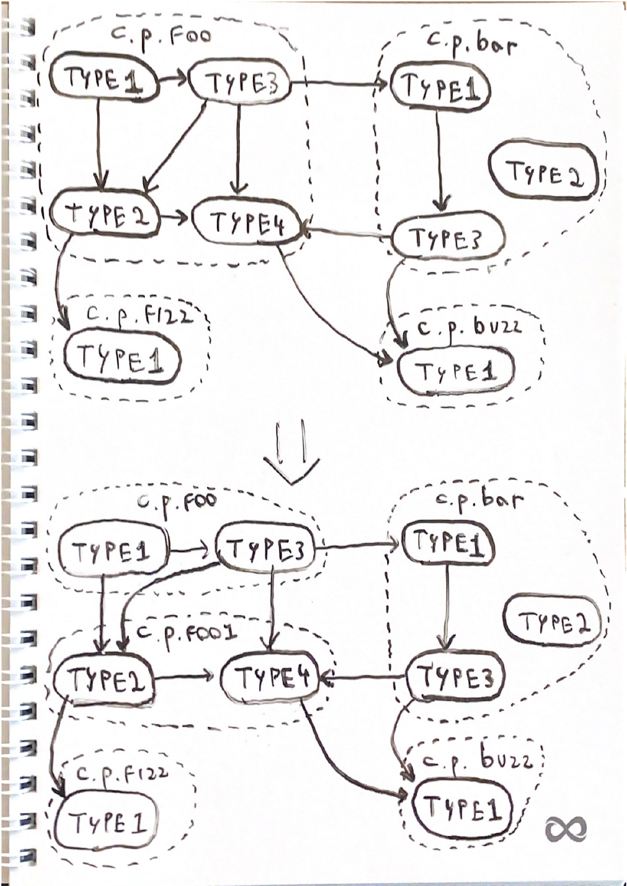
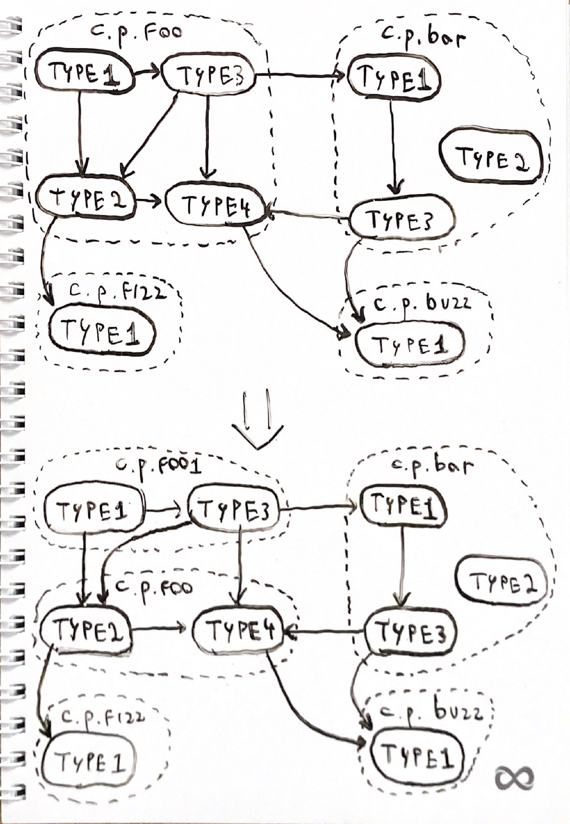
improve

diff --git a/conjure/cycles/partition.go b/conjure/cycles/partition.go
@@ -1,0 +1,131 @@
+// Copyright (c) 2018 Palantir Technologies. All rights reserved.
+//
+// Licensed under the Apache License, Version 2.0 (the "License");
+// you may not use this file except in compliance with the License.
+// You may obtain a copy of the License at
+//
+//     http://www.apache.org/licenses/LICENSE-2.0
+//
+// Unless required by applicable law or agreed to in writing, software
+// distributed under the License is distributed on an "AS IS" BASIS,
+// WITHOUT WARRANTIES OR CONDITIONS OF ANY KIND, either express or implied.
+// See the License for the specific language governing permissions and
+// limitations under the License.
+
+package cycles
+
+// partition takes in a directed acyclic graph (nodes of type T) where each node has a color (color of type V).
+// It attempts to merge as many nodes as possible in a stable manner such that two nodes can be merged
+// if and only if they have the same color and merging them won't introduce a cycle.
+func partition[T, V comparable](g *graph[T], colorByID map[T]V) map[V][][]T {
+	return (&partitioner[T, V]{g: g, colorByID: colorByID}).run()
+}
+
+type partitioner[T, V comparable] struct {
+	// partitioner input
+	g         *graph[T]
+	colorByID map[T]V
+
+	// partitioner internal variables
+	numNodes     int
+	idToBit      map[T]bitID
+	disallowed   map[T]bitset   // For each node, the nodes that, if merged, would cause a cycle.
+	dependencies map[T]bitset   // For each node u, the nodes that can be reached by u.
+	visited      map[T]struct{} // Visit each node once in the dfs
+	revToposort  []T
+}
+
+func (p *partitioner[T, V]) run() map[V][][]T {
+	p.numNodes = len(p.g.nodes)
+
+	// Step 1: Represent all nodes as a bitID. We'll use bitsets to efficiently represent dependencies in O(n^2/64).
+	p.idToBit = make(map[T]bitID, p.numNodes)
+	for i, u := range p.g.nodes {
+		p.idToBit[u.id] = bitID(i)
+	}
+
+	// Step 2: For each node, calculate its total dependencies and disallowed dependencies.
+	// A dependency is disallowed if and only if:
+	// - Dependency has a different color
+	// - At least one node of a different color exists in a the path from the node to the dependency.
+	// Also while we're at it, calculate a reversed topological sort.
+	p.visited = make(map[T]struct{}, p.numNodes)
+	p.disallowed = make(map[T]bitset, p.numNodes)
+	p.dependencies = make(map[T]bitset, p.numNodes)
+	p.revToposort = make([]T, 0, p.numNodes)
+	for _, u := range p.g.nodes {
+		p.dfs(u)
+	}
+
+	// Step 3: Traverse nodes and try to merge into one of the groupings or create a new grouping if not possible.
+	// Do it in reverse topological order to prioritize groups that have less dependencies.
+	groupsByColor := make(map[V][][]T)
+	for _, id := range p.revToposort {
+		color := p.colorByID[id]
+		merged := false
+		for groupIdx, group := range groupsByColor[color] {
+			// Since we merge all restrictions of the group into the first one, we can check if we can merge
+			// by just checking the first one.
+			leader := group[0]
+			if p.canMerge(id, leader) {
+				p.merge(id, leader)
+				group = append(group, id)
+				groupsByColor[color][groupIdx] = group
+				merged = true
+				break
+			}
+		}
+		if !merged {
+			groupsByColor[color] = append(groupsByColor[color], []T{id})
+		}
+	}
+	return groupsByColor
+}
+
+func (p *partitioner[T, V]) dfs(u *node[T]) {
+	if _, alreadyVisited := p.visited[u.id]; alreadyVisited {
+		return
+	}
+	p.visited[u.id] = struct{}{}
+
+	disallowed := newBitset(p.numNodes)
+	dependencies := newBitset(p.numNodes)
+	for _, v := range u.sortedEdges(func(id1, id2 T) bool { return false }) {
+		p.dfs(v)
+
+		dependencies = dependencies.merge(p.dependencies[v.id])
+
+		// If the node v (dependency of u) can't merge with node w (dependency of v),
+		// then node u also can't merge with w (indirect dependency of u) because either:
+		// - u and w have different colors
+		// - u and w have the same color and both have different colors than v: in this case there is a color cycle
+		// - u and w are the same color which is also the same as v: since w is disallowed to v there exists at least
+		//   one path from v to w that has a node of a different color and this path is a sub-path of u to w.
+		// Therefore, we can just merge the v's disallowed set into u's.
+		disallowed = disallowed.merge(p.disallowed[v.id])
+		// If color of u and v have different colors, then u and v can't be merged.
+		if p.colorByID[u.id] != p.colorByID[v.id] {
+			disallowed = disallowed.merge(p.dependencies[v.id])
+		}
+	}
+
+	p.disallowed[u.id] = disallowed
+	dependencies.turnBitOn(p.idToBit[u.id])
+	p.dependencies[u.id] = dependencies
+	p.revToposort = append(p.revToposort, u.id)
+}
+
+func (p *partitioner[T, V]) canMerge(id1, id2 T) bool {
+	// Can't merge two nodes if the colors are different
+	if p.colorByID[id1] != p.colorByID[id2] {
+		return false
+	}
+	// Check if one is a disallowed dependency of the other.
+	return !p.disallowed[id1].getBit(p.idToBit[id2]) &&
+		!p.disallowed[id2].getBit(p.idToBit[id1])
+}
+
+func (p *partitioner[T, V]) merge(id1, id2 T) {
+	p.disallowed[id1] = p.disallowed[id1].merge(p.disallowed[id2])
+	p.disallowed[id2] = p.disallowed[id2].merge(p.disallowed[id1])
+}

diff --git a/conjure/cycles/package.go b/conjure/cycles/package.go
@@ -24,16 +24,17 @@ import (
 )
 
 type packageSet map[string]struct{}
+type packageSetStr string
 
 type typeTransformFn func(typeName spec.TypeName) (spec.TypeName, error)
 
-func (s *packageSet) toString() string {
+func (s *packageSet) toString() packageSetStr {
 	strs := make([]string, 0, len(*s))
 	for str := range *s {
 		strs = append(strs, str)
 	}
 	sort.Strings(strs)
-	return strings.Join(strs, ";")
+	return packageSetStr(strings.Join(strs, ";"))
 }
 
 // RemovePackageCycles modifies the conjure definition in order to remove package cycles in the compiled Go code.
@@ -49,7 +50,7 @@ func RemovePackageCycles(def spec.ConjureDefinition) (spec.ConjureDefinition, er
 	sccs := calculateStronglyConnectedComponents(typeGraph)
 
 	// Step 3: merge strongly connected components as much as possible
-	packageSetByComponent := make(map[componentID]string, len(sccs.componentGraph.nodes))
+	packageSetByComponent := make(map[componentID]packageSetStr, len(sccs.componentGraph.nodes))
 	for compID, types := range sccs.components {
 		packages := make(packageSet)
 		for _, typ := range types {
@@ -57,7 +58,7 @@ func RemovePackageCycles(def spec.ConjureDefinition) (spec.ConjureDefinition, er
 		}
 		packageSetByComponent[compID] = packages.toString()
 	}
-	mergedComponents := mergeColors(sccs.componentGraph, packageSetByComponent)
+	mergedComponents := partition(sccs.componentGraph, packageSetByComponent)
 
 	// Step 4: merge types within a set of merged components and create a type transformation map
 	typeTransform := make(map[spec.TypeName]spec.TypeName)
@@ -72,10 +73,6 @@ func RemovePackageCycles(def spec.ConjureDefinition) (spec.ConjureDefinition, er
 			typeGroups = append(typeGroups, dedup(types))
 		}
 
-		// Sort type groups to keep algorithm stable
-		sort.SliceStable(typeGroups, func(i, j int) bool {
-			return compareTypes(typeGroups[i][0], typeGroups[j][0])
-		})
 		for idx, typeGroup := range typeGroups {
 			mergeTypesIntoSamePackage(typeGroup, typeTransform, idx)
 		}

diff --git a/conjure/cycles/package_test.go b/conjure/cycles/package_test.go
@@ -248,8 +248,8 @@ func TestApplyTransformToDef(t *testing.T) {
 			conjureInputFile:  "testdata/pkg-cycle/in.conjure.json",
 			conjureOutputFile: "testdata/pkg-cycle/out.conjure.json",
 			typeTransform: map[spec.TypeName]spec.TypeName{
-				{Package: "com.palantir.foo", Name: "Type2"}: {Package: "com.palantir.foo1", Name: "Type2"},
-				{Package: "com.palantir.foo", Name: "Type4"}: {Package: "com.palantir.foo1", Name: "Type4"},
+				{Package: "com.palantir.foo", Name: "Type1"}: {Package: "com.palantir.foo1", Name: "Type1"},
+				{Package: "com.palantir.foo", Name: "Type3"}: {Package: "com.palantir.foo1", Name: "Type3"},
 			},
 		},
 		{

diff --git a/conjure/cycles/partition_test.go b/conjure/cycles/partition_test.go
@@ -20,7 +20,7 @@ import (
 	"github.com/stretchr/testify/assert"
 )
 
-func TestMergeColors(t *testing.T) {
+func TestPartition(t *testing.T) {
 	for _, testCase := range []struct {
 		name      string
 		graph     *graph[int]
@@ -146,7 +146,7 @@ func TestMergeColors(t *testing.T) {
 		},
 	} {
 		t.Run(testCase.name, func(t *testing.T) {
-			actual := mergeColors(testCase.graph, testCase.colorByID)
+			actual := partition(testCase.graph, testCase.colorByID)
 			assert.Equal(t, testCase.expected, actual)
 		})
 	}

diff --git a/conjure/cycles/README.md b/conjure/cycles/README.md
@@ -329,8 +329,10 @@ becomes
 
 Finally, we can build a map from the old tuple `(package,name)` to a new tuple `(package,name)`
 using the modifications described in the step above. If more than one Go package shares the same package name and path,
-we'll iterate over Go packages in lexicographical order of their names and their first type and, if we see a package
+we'll iterate over Go packages in the increasing order of antichain depth and, if we see a package
 we've seen before, append a number starting from 1 and increasing each time.
+The reason we chose the antichain order is to ensure stability of the algorithm: the assigned package name will only
+change if the disallowed DAG changes, and that only happens when a new conjure package cycle is introduced.
 
 For example,
 ```json
@@ -400,7 +402,8 @@ Because of this, there are two antichains in the disallowed DAG for package set 
 Here, the SCC that contains `com.palantir.foo:Type3` can choose to join the Go package of `com.palantir.foo:Type1/2`
 or the Go package of `com.palantir.foo:Type4`. Because we process SCCs in reverse topological order and always place
 them in the deepest allowed antichain, it ends up joining the latter.
-The Go package that contains `com.palantir.foo:Type3/4` is renamed to `com.palantir.foo1` to deconflict.
+The Go package that contains `com.palantir.foo:Type1/3` is renamed to `com.palantir.foo1` to deconflict.
+The reason this is the package chosen is because names are assigned in increasing order of depth.
 The resulting definition has one more package.
 
 ### Type cycles
